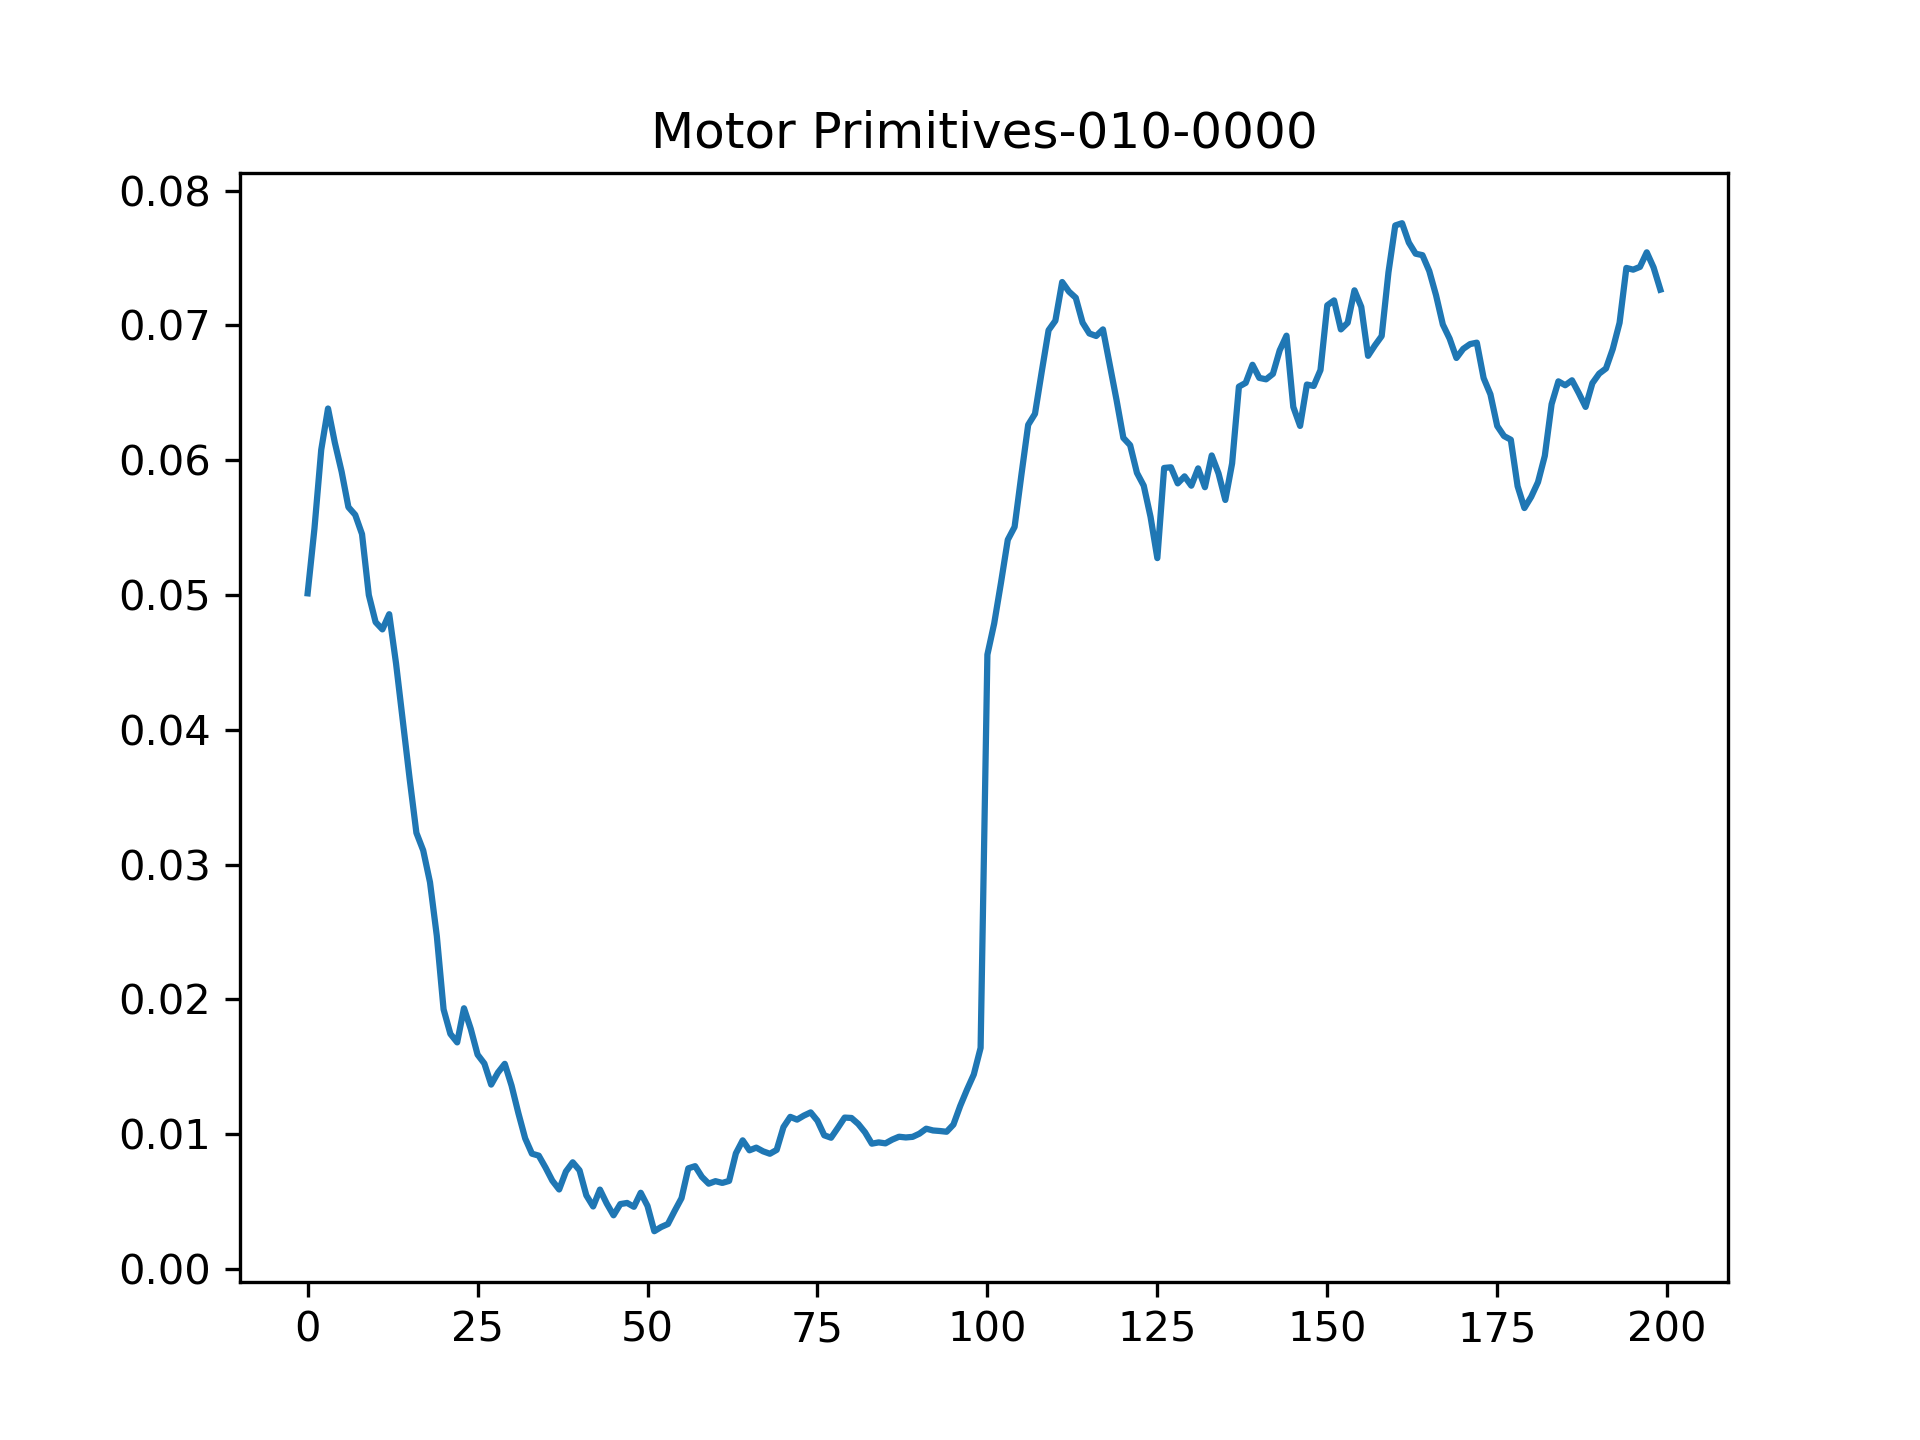
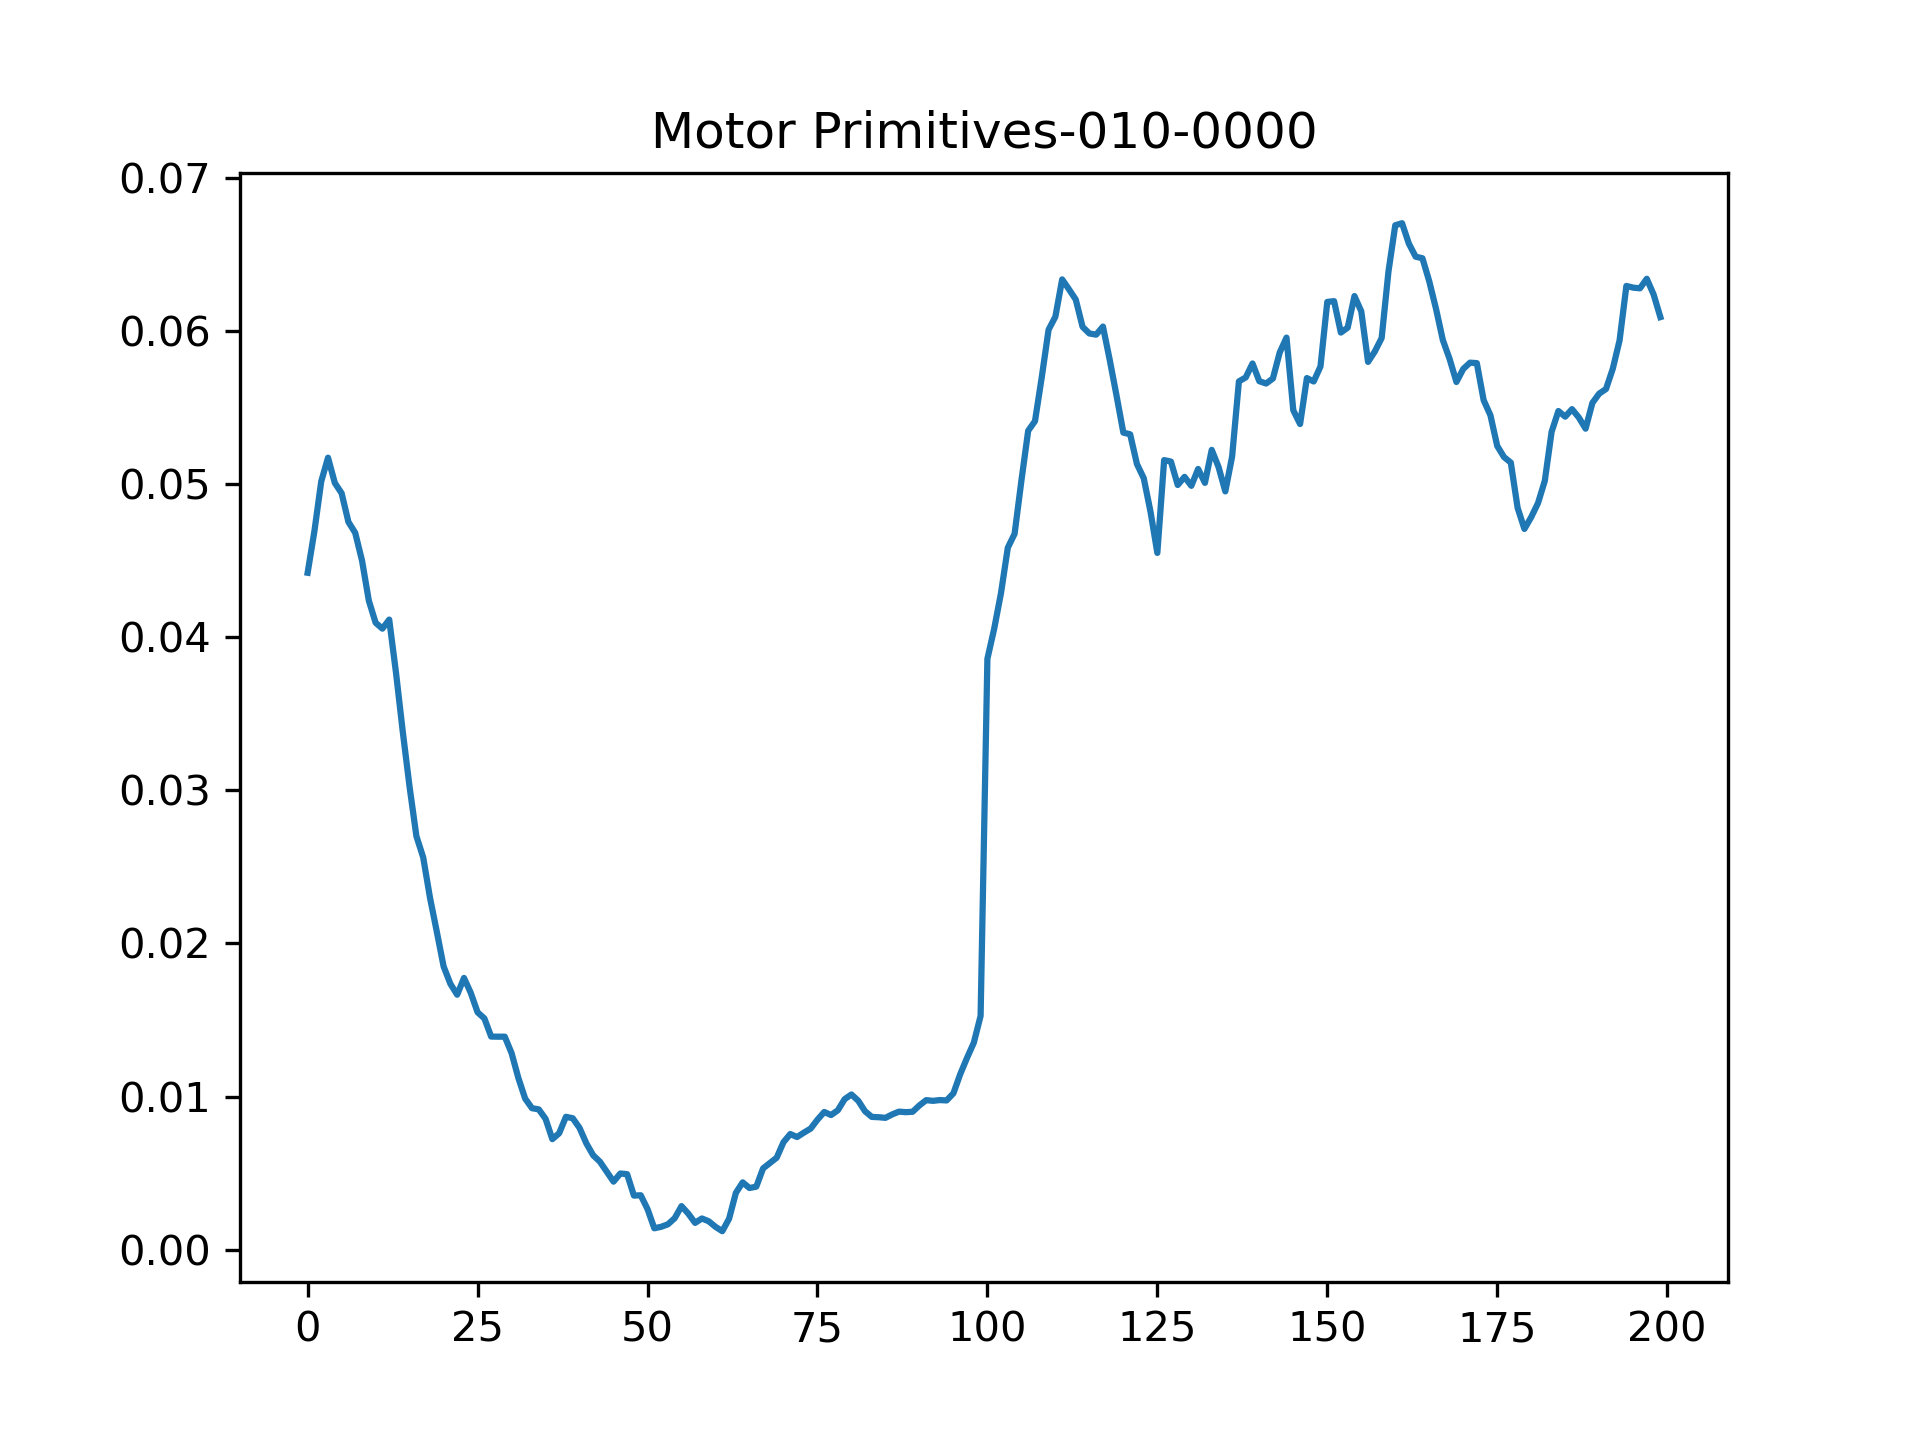
Update

diff --git a/emg/CoM-M3-WT-20220220/motor-modules.py b/emg/CoM-M3-WT-20220220/motor-modules.py
@@ -46,7 +46,7 @@ for i in range(len(R2All)):
     print("r =", i+2, ":", corrcoef[i])
 
 # Choosing best number of components
-W, H, C = nnmf_factorize(A, 2)
+W, H, C = nnmf_factorize(A, 3)
 
 print(H)
 print(H.shape)
@@ -72,24 +72,18 @@ print(motor_primitives[:,0])
 #     for j in range(0, len(motor_primitives), 200):
 #         ending_point = j+200
 #         starting_point = ending_point - 200
-#         plt.plot(samples[samples_binned], motor_primitives[starting_point, i])
+#         plt.plot(samples[samples_binned], motor_primitives[j:j+200, i])
 #         plt.title("Motor Primitives-010-{:04}".format(i))
 #         plt.savefig("motor_primitives-cumulative-010-{:04}.png".format(i), dpi=300)
+#         plt.clf()
 
-num_plots = len(motor_primitives) // 200
-
-for i in range(num_plots):
-    subset = motor_primitives[i*200:(i+1)*200, :]
-    plt.plot(subset[:,0], subset[:,1])
-    plt.title(f"Motor Primitives-010-{i+1}")
-    plt.show()
-
-# for i in range(0, len(motor_primitives), 200):
-#     # ending_point = i+200
-#     # starting_point = ending_point - 200
-#     plt.plot(samples[i:i+200], motor_primitives[i:i+200, 1])
-#     plt.title("Motor Primitives-010-{:04}".format(i))
-#     plt.savefig("motor_primitives-cumulative-010-{:04}.png".format(i), dpi=300)
+for i in range(0, len(motor_primitives), 200):
+    # ending_point = i+200
+    # starting_point = ending_point - 200
+    plt.plot(samples[samples_binned], motor_primitives[i:i+200, 2])
+    plt.title("Motor Primitives-010-{:04}".format(i))
+    plt.savefig("motor_primitives-cumulative-010-{:04}.png".format(i), dpi=300)
+    plt.clf()
 
 # plt.plot(samples[samples_binned], motor_primitives[starting_point, i])
 # plt.title("Motor Primitives-010-{:04}".format(i))
